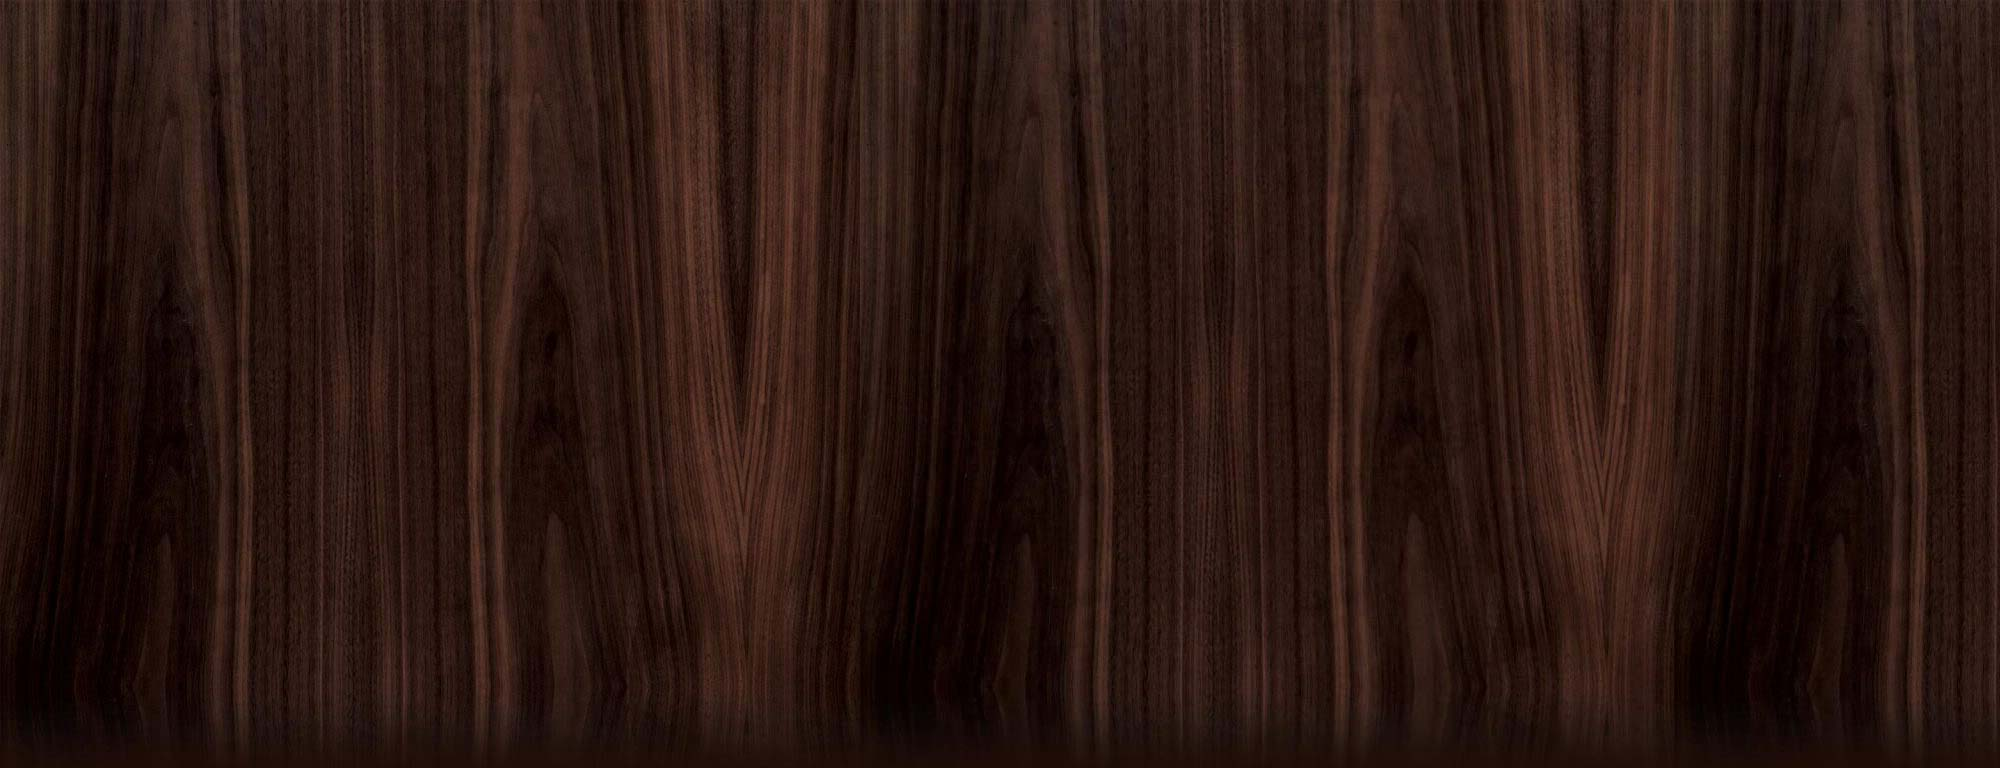
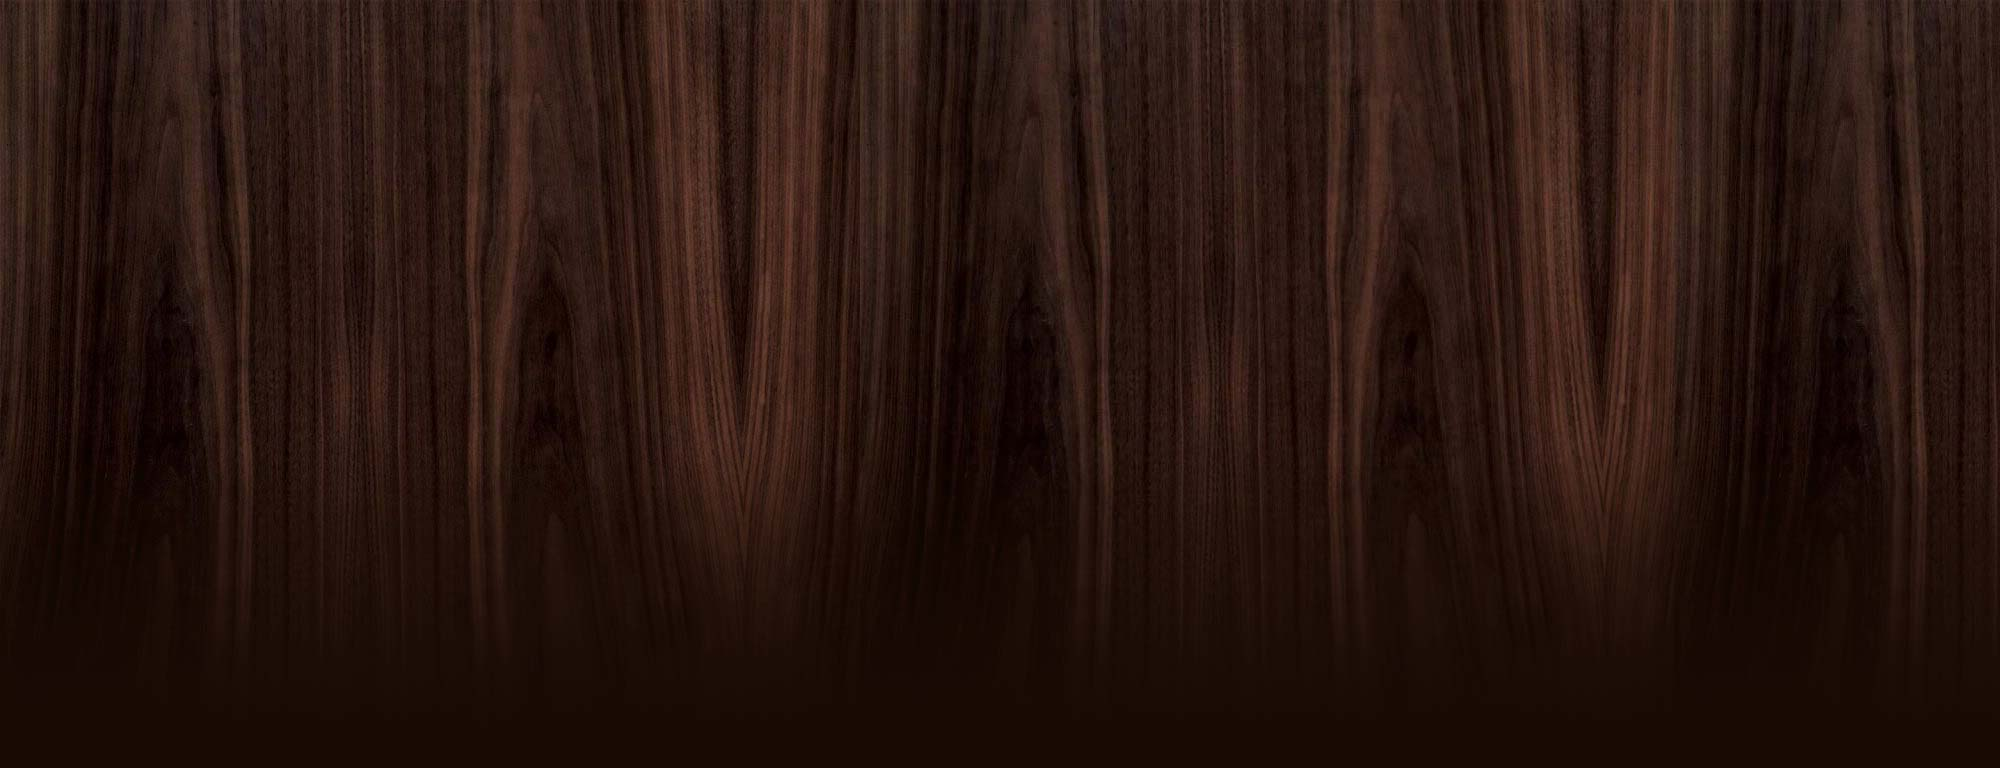
Project 1 - Checked & Cleaned Up For Review
Final code before turn-in. Validated code and made minor adjustments.

diff --git a/styles.css b/styles.css
@@ -9,7 +9,7 @@ body {
   text-align: center;
   font-family: 'Roboto', sans-serif;
   color: #222;
-  background: url('images/background_wood.jpg') no-repeat top center ;
+  background: #1a0b04 url('images/background_wood.jpg') no-repeat bottom center ;
   background-size: cover;
 }
 
@@ -25,6 +25,7 @@ h2 {
   padding-bottom:5px;
   font-weight:100;
   text-transform: uppercase;
+  color:#4f854b;
 
 }
 
@@ -137,7 +138,7 @@ ul.skills {
 }
 
 .skills li:nth-child(odd) {
-  background: #0399ff;
+  background: #ff7404;
 }
 
 footer {
